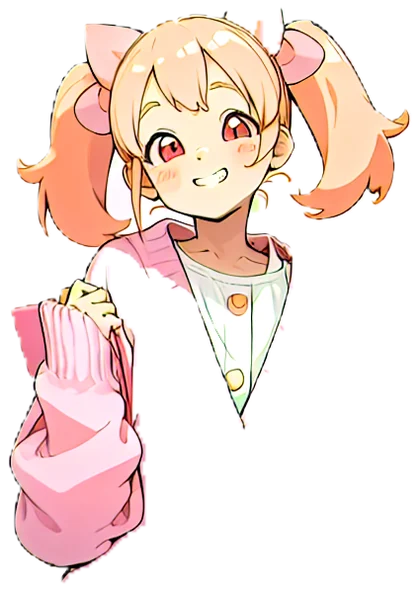
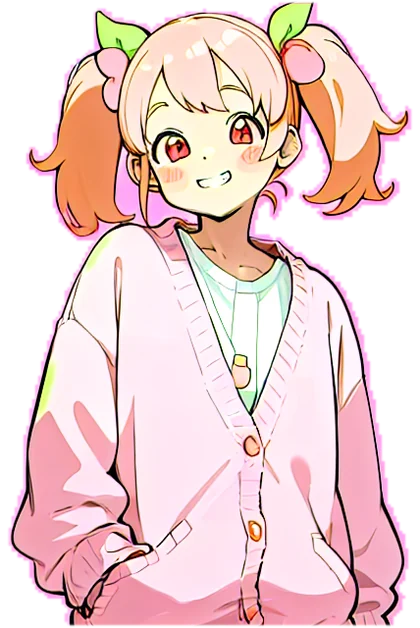
fix: 规范立绘构图与背景处理，补充夜景群聊场景

diff --git a/src/assets.ts b/src/assets.ts
@@ -2,12 +2,14 @@
  * 素材索引。由 tools/pack.py 生成，不要手改。
  */
 import bg_bg_canteen from '../assets/bg/bg_canteen.webp';
+import bg_bg_chat from '../assets/bg/bg_chat.webp';
 import bg_bg_class from '../assets/bg/bg_class.webp';
 import bg_bg_store from '../assets/bg/bg_store.webp';
 import bg_bg_title from '../assets/bg/bg_title.webp';
 
 export const backgrounds: Record<string, string> = {
   'bg_canteen': bg_bg_canteen,
+  'bg_chat': bg_bg_chat,
   'bg_class': bg_bg_class,
   'bg_store': bg_bg_store,
   'bg_title': bg_bg_title,

diff --git a/tools/cutout.py b/tools/cutout.py
@@ -33,6 +33,45 @@ def background_color(arr: np.ndarray) -> np.ndarray:
     return np.median(samples, axis=0)
 
 
+def dilate(mask: np.ndarray, radius: int = 2) -> np.ndarray:
+    out = mask.copy()
+    for _ in range(radius):
+        grown = out.copy()
+        grown[1:, :] |= out[:-1, :]
+        grown[:-1, :] |= out[1:, :]
+        grown[:, 1:] |= out[:, :-1]
+        grown[:, :-1] |= out[:, 1:]
+        out = grown
+    return out
+
+
+def fill_holes(mask: np.ndarray) -> np.ndarray:
+    """把主体内部被围住的空洞补回来（白衣服内侧常被误抠）。"""
+    h, w = mask.shape
+    free = ~mask
+    seen = np.zeros_like(free, dtype=bool)
+    queue: deque[tuple[int, int]] = deque()
+    for x in range(w):
+        for y in (0, h - 1):
+            if free[y, x]:
+                seen[y, x] = True
+                queue.append((y, x))
+    for y in range(h):
+        for x in (0, w - 1):
+            if free[y, x] and not seen[y, x]:
+                seen[y, x] = True
+                queue.append((y, x))
+    while queue:
+        y, x = queue.popleft()
+        for dy, dx in ((1, 0), (-1, 0), (0, 1), (0, -1)):
+            ny, nx = y + dy, x + dx
+            if 0 <= ny < h and 0 <= nx < w and free[ny, nx] and not seen[ny, nx]:
+                seen[ny, nx] = True
+                queue.append((ny, nx))
+    holes = free & ~seen
+    return mask | holes
+
+
 def flood(arr: np.ndarray, near: np.ndarray, step_tol: int = 10, seed_tol: int = 48) -> np.ndarray:
     """从四条边往里漫水。
 
@@ -44,6 +83,8 @@ def flood(arr: np.ndarray, near: np.ndarray, step_tol: int = 10, seed_tol: int =
     small_arr = arr[::2, ::2].astype(np.int32)
     small_near = near[::2, ::2]
     sh, sw = small_arr.shape[:2]
+    # 外侧先胀一圈，封住手臂和身体之间那种几像素的缝，免得白衣服被穿过去
+    sealed = dilate(~small_near, 2)
 
     visited = np.zeros((sh, sw), dtype=bool)
     seeds: list[tuple[int, int]] = []
@@ -66,6 +107,8 @@ def flood(arr: np.ndarray, near: np.ndarray, step_tol: int = 10, seed_tol: int =
         for dy, dx in ((1, 0), (-1, 0), (0, 1), (0, -1)):
             ny, nx = y + dy, x + dx
             if not (0 <= ny < sh and 0 <= nx < sw) or visited[ny, nx]:
+                continue
+            if sealed[ny, nx]:
                 continue
             cand = small_arr[ny, nx]
             step = int(np.abs(cand.astype(np.int32) - base.astype(np.int32)).max())
@@ -113,6 +156,12 @@ def largest_blob(foreground: np.ndarray) -> np.ndarray:
     return np.asarray(up) > 127
 
 
+def is_chroma(bg: np.ndarray) -> bool:
+    """绿幕判断：绿色明显压过红蓝。"""
+    r, g, b = (float(v) for v in bg)
+    return g > 120 and g - max(r, b) > 45
+
+
 def cutout(path: str, out_path: str | None = None, tol: int = 32, feather: float = 1.0) -> str:
     img = Image.open(path).convert("RGB")
     w, h = img.size
@@ -120,18 +169,30 @@ def cutout(path: str, out_path: str | None = None, tol: int = 32, feather: float
     bg = background_color(arr)
 
     dist = np.sqrt(((arr - bg) ** 2).sum(axis=2))
-    near = dist < tol
 
-    # 漫水两段：先按“接近背景色”铺一遍，再沿着平坦色块往外扩（有的图背景带色块）
-    background = flood(arr, near, step_tol=10, seed_tol=48)
-    # 前景只留最大连通块：背景里漂着的色块（黄块、灰条）会被一起丢掉
-    subject = largest_blob(~background)
-    background = ~subject
+    if is_chroma(bg):
+        # 绿幕：直接按颜色距离抠，闭口袋里的绿也能去掉，不依赖连通性
+        background = dist < 78
+        # 边缘那圈会残留一点绿，做一次轻微收缩
+        background = dilate(background, 1)
+        subject = largest_blob(~background)
+        background = ~subject
+    else:
+        near = dist < 38
+        background = flood(arr, near, step_tol=10, seed_tol=52)
+        subject = largest_blob(~background)
+        background = ~subject
 
     alpha = np.where(background, 0, 255).astype(np.uint8)
     out = Image.fromarray(np.dstack([np.asarray(img), alpha]), mode="RGBA")
     if feather > 0:
         out.putalpha(out.getchannel("A").filter(ImageFilter.GaussianBlur(feather)))
+
+    # 绿边压一下：把靠近边缘的像素里偏绿的分量拉回来
+    rgb = np.asarray(out.convert("RGB")).astype(np.float32)
+    edge = np.asarray(out.getchannel("A")) < 200
+    rgb[edge, 1] = np.minimum(rgb[edge, 1], (rgb[edge, 0] + rgb[edge, 2]) / 2 + 8)
+    out = Image.fromarray(np.dstack([rgb.astype(np.uint8), np.asarray(out.getchannel("A"))]), mode="RGBA")
 
     bbox = out.getbbox()
     if bbox:
@@ -143,7 +204,8 @@ def cutout(path: str, out_path: str | None = None, tol: int = 32, feather: float
 
     dest = out_path or path.replace(".png", "_cut.png")
     out.save(dest)
-    print(f"[cut] {os.path.basename(path)} -> {os.path.basename(dest)}  背景 {tuple(int(v) for v in bg)}  主体 {100 * (1 - background.mean()):.0f}%")
+    mode = "绿幕" if is_chroma(bg) else "纯色"
+    print(f"[cut] {os.path.basename(path)} -> {os.path.basename(dest)}  {mode} {tuple(int(v) for v in bg)}  主体 {100 * (1 - background.mean()):.0f}%")
     return dest
 
 
